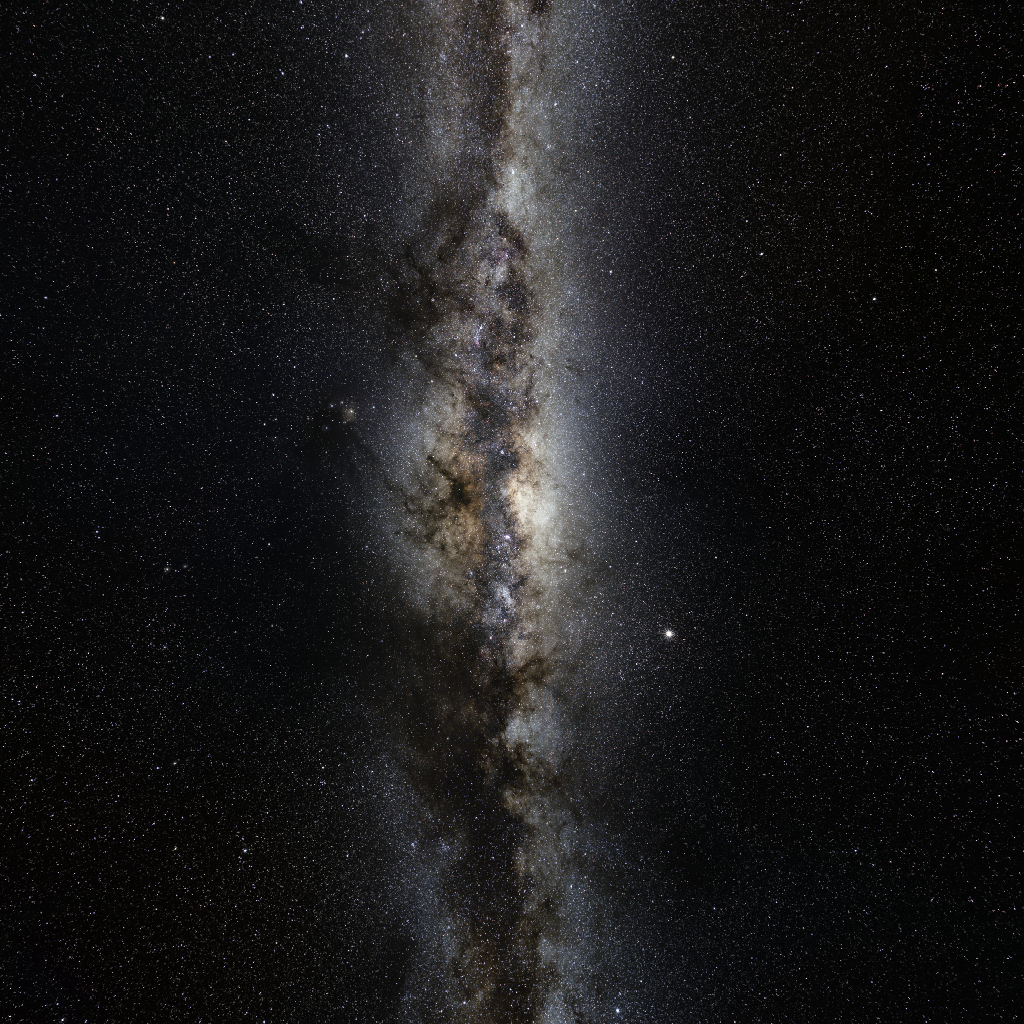
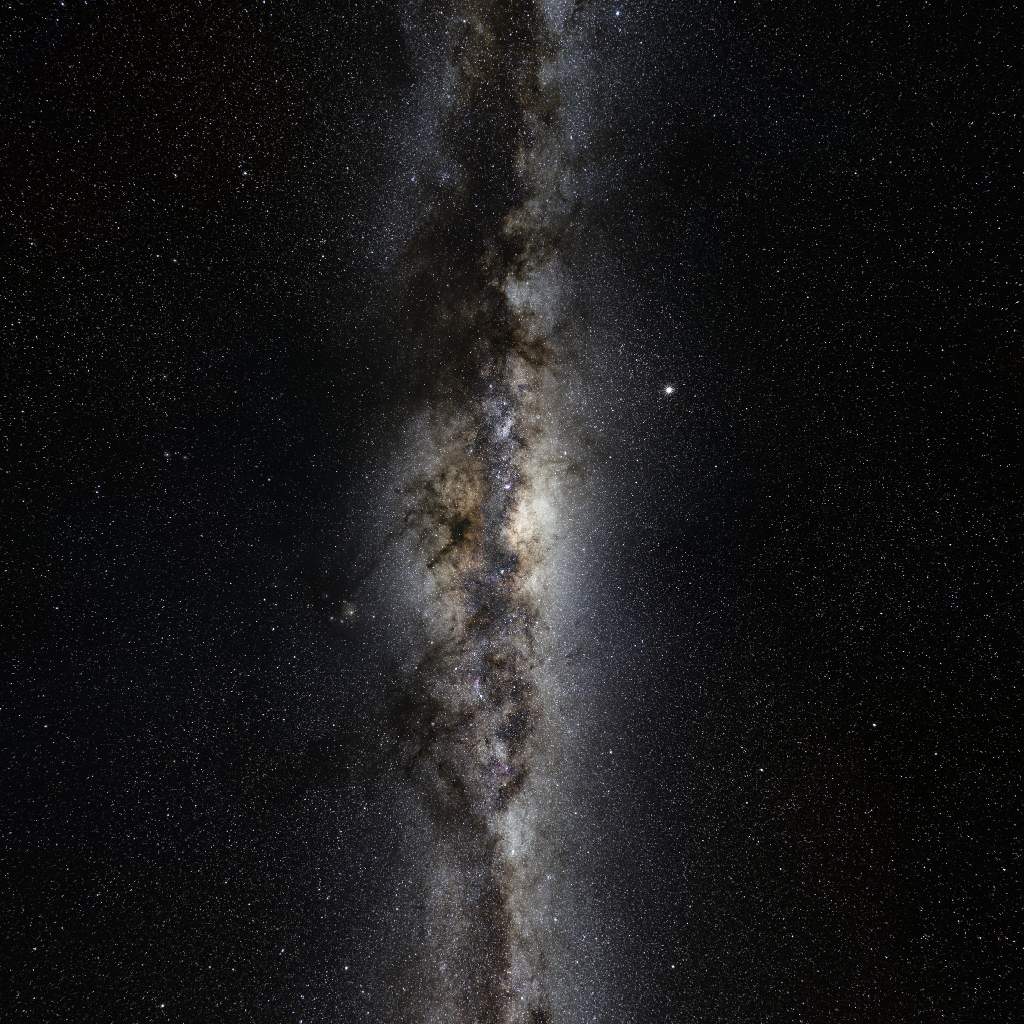
webgl flip nah.  also didn't realize so little was hooked up in the lua version.

diff --git a/main.js b/main.js
@@ -318,7 +318,7 @@ preload(skyTexFilenames, () => {
 
 	console.log('creating skyTex', skyTexFilenames);
 	const skyTex = new glutil.TextureCube({
-		flipY : true,
+		flipY : false,
 		generateMipmap : true,
 		magFilter : gl.LINEAR,
 		minFilter : gl.LINEAR_MIPMAP_LINEAR,
